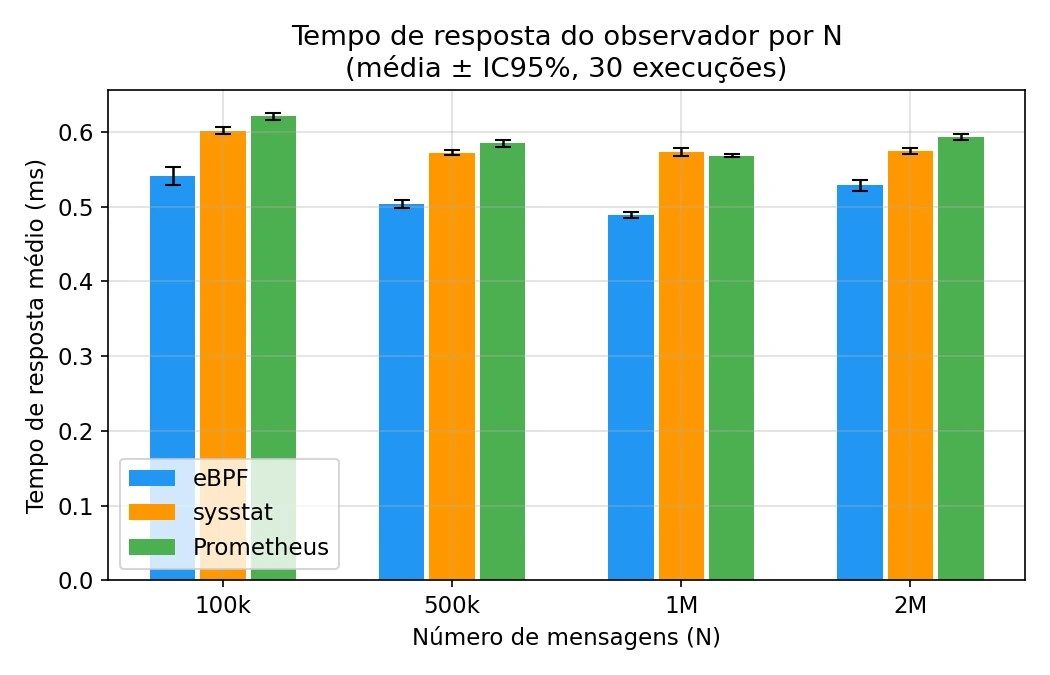
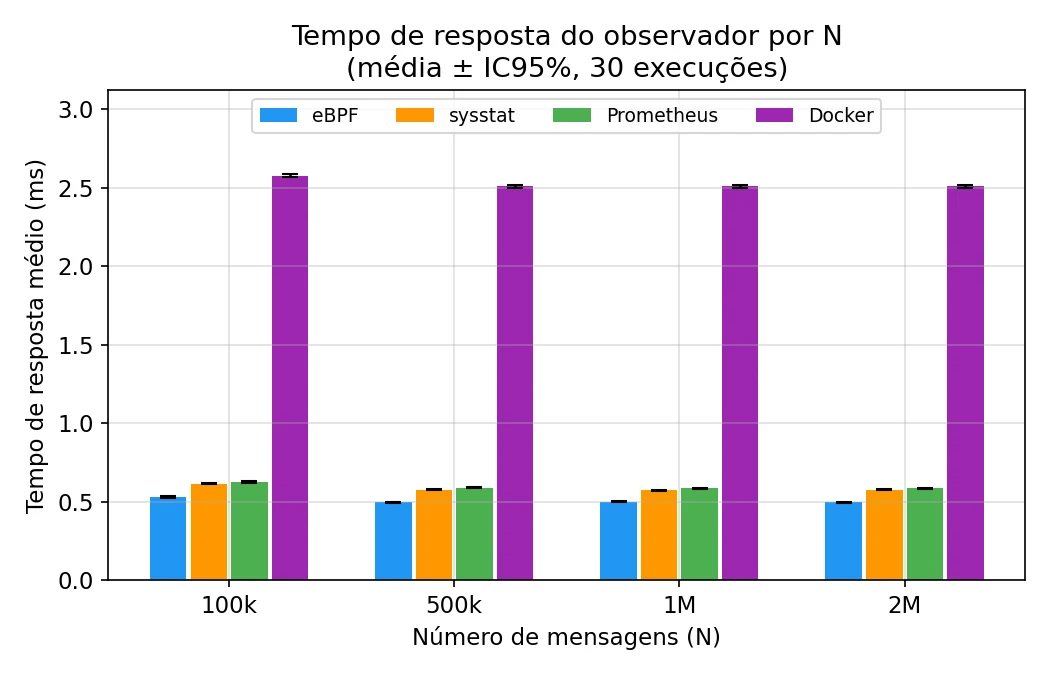
content: TCC com quatro ferramentas e 480 execuções (#23)
* content: TCC com a quarta ferramenta e a nova coleta de 480 execuções

Atualiza o estudo de caso, o card da home e os dados do projeto: Docker
entra como quarto coletor, 480 execuções (kernel 7.0.0-38), eBPF de 13%
a 16% abaixo de Sysstat e Prometheus, limites revisados. Troca o gráfico
e o diagrama C4 pelos gerados no repositório do TCC.

* content: link e captura do painel VNF Lab no estudo do TCC

---------

diff --git a/src/data/caseStudies.ts b/src/data/caseStudies.ts
@@ -85,27 +85,28 @@ export const CASE_STUDIES: CaseStudy[] = [
       { id: "monitor", title: "O monitor de TCP, no centro do curso.", paragraphs: ["Duas kprobes cobrem as duas direções do tráfego: tcp_sendmsg a cada envio e tcp_cleanup_rbuf a cada entrega de dados recebidos à aplicação. Cada uma soma bytes em um mapa hash, e o programa de controle lê os dois mapas a cada segundo e imprime uma tabela de porta, bytes enviados e recebidos.", "Uma decisão que vale registrar: o roteiro do curso lia a porta remota, mas usamos a porta local do socket. Assim a tabela sempre mostra a porta do processo observado, que no laboratório é a 8080 do servidor de teste, e não a porta temporária do cliente, que muda a cada conexão."], code: { title: "monitor.bpf.c, trecho do exemplo 04", content: 'struct {\n    __uint(type, BPF_MAP_TYPE_HASH);\n    __uint(max_entries, 1024);\n    __type(key, __u16);   // porta TCP local\n    __type(value, __u64); // bytes acumulados\n} bytes_enviados SEC(".maps");\n\nSEC("kprobe/tcp_sendmsg")\nint BPF_KPROBE(trace_tcp_sendmsg, struct sock *sk, struct msghdr *msg, size_t size)\n{\n    __u16 porta = BPF_CORE_READ(sk, __sk_common.skc_num);\n\n    acumular(&bytes_enviados, porta, size);\n    return 0;\n}' }, points: ["Duas kprobes, uma por direção do tráfego", "Mapas hash chaveados pela porta TCP local", "O kernel agrega os contadores, sem ler /proc nem copiar pacotes", "O kprobe enxerga o container porque o kernel é compartilhado"] },
       { id: "ambiente", title: "O ambiente também faz parte do material.", paragraphs: ["O ambiente é reproduzível por Docker, com um container de desenvolvimento que já traz clang, LLVM, libbpf e bpftool, e um servidor de teste que gera o tráfego TCP. Um script confere se a máquina tem o que é preciso, como o suporte a BTF no kernel.", "Em máquinas onde o Docker não pode ser usado, como os laboratórios da faculdade, o repositório traz uma alternativa com libvirt e QEMU-KVM: uma VM onde há root e o Docker roda como em qualquer máquina. O fluxo recomendado pelo orientador é gerar a imagem uma vez e importá-la pronta em cada computador, em vez de provisionar tudo do zero."], points: ["Container de desenvolvimento e servidor de teste em Docker", "Alternativa em VM com libvirt e QEMU-KVM para laboratórios", "Imagem gerada uma vez e importada em cada máquina"] },
       { id: "validacao", title: "Cada exemplo foi compilado e testado de ponta a ponta.", paragraphs: ["O GitHub Actions verifica o suporte a BTF no runner e compila os exemplos em C dentro do container de desenvolvimento a cada push, e também roda lint nos exemplos em Python. Todos os seis exemplos, em C e em Python, foram compilados ou carregados e validados na prática.", "Os exemplos 04 e 05 em Python foram validados na VM libvirt, porque o ambiente em que o repositório foi montado tinha um pacote de headers do kernel inconsistente, que impedia o BCC de compilar. A versão em Python do exemplo 04 precisou de dois ajustes, um include que faltava e o uso incorreto da API de tabelas do BCC, e ambos estão documentados no próprio exemplo."], points: ["CI compilando os exemplos em C a cada push", "Validação real, incluindo na VM libvirt", "Problemas encontrados e correções documentados no repositório"] },
-      { id: "pesquisa", title: "A pesquisa que fundamenta o curso.", paragraphs: ["O curso se apoia no experimento do meu TCC: um benchmark que compara o overhead de eBPF, Sysstat e Prometheus ao monitorar um WAF em container. O experimento tem 30 repetições, 4 cargas e 3 coletores, e o código está em um repositório separado, o vnf-monitoring-benchmark."], points: ["Benchmark de overhead com 30 repetições, 4 cargas e 3 coletores", "Experimento em repositório separado"] },
+      { id: "pesquisa", title: "A pesquisa que fundamenta o curso.", paragraphs: ["O curso se apoia no experimento do meu TCC: um benchmark que compara o overhead de eBPF, Sysstat, Prometheus e Docker ao monitorar um WAF em container. O experimento tem 30 repetições, 4 cargas e 4 coletores, e o código está em um repositório separado, o vnf-monitoring-benchmark."], points: ["Benchmark de overhead com 30 repetições, 4 cargas e 4 coletores", "Experimento em repositório separado"] },
     ],
   },
   {
     projectId: "tcc-monitoramento",
     slug: "tcc-monitoramento",
     headline: "Quanto custa observar um sistema?",
-    introduction: "Meu TCC compara o overhead de três formas de monitorar uma função de rede virtualizada: eBPF, Sysstat e Prometheus. Montei um experimento reprodutível, com um WAF sob carga, e medi o custo de cada ferramenta com estatística, em vez de opinião.",
+    introduction: "Meu TCC compara o overhead de quatro formas de monitorar uma função de rede virtualizada: eBPF, Sysstat, Prometheus e a API do Docker. Montei um experimento reprodutível, com um WAF sob carga, e medi o custo de cada ferramenta com estatística, em vez de opinião.",
     scope: "TCC em dupla · orientação do Prof. Guilherme Werneck de Oliveira · defesa final pendente",
     flowTitle: "O caminho de uma medição",
     flow: ["Cliente", "WAF", "Observador", "Probe UDP", "Tempo de resposta"],
     screens: [
       { src: "/tcc/c4.webp", alt: "Diagrama C4 de contêineres do experimento: observador, WAF, coletor e cliente", caption: "Diagrama C4 do experimento: o cliente gera tráfego para o WAF, o observador coleta as métricas e o coletor mede quanto ele demora para responder." },
-      { src: "/tcc/tempo-resposta.webp", alt: "Gráfico do tempo de resposta médio do observador por volume, com intervalo de confiança de 95%", caption: "Tempo de resposta médio do observador por volume de mensagens, com intervalo de confiança de 95% sobre 30 execuções." },
+      { src: "/tcc/tempo-resposta.webp", alt: "Gráfico do tempo de resposta médio do observador por volume, comparando eBPF, sysstat, Prometheus e Docker, com intervalo de confiança de 95%", caption: "Tempo de resposta médio do observador por volume de mensagens, com intervalo de confiança de 95% sobre 30 execuções." },
+      { src: "/tcc/dashboard.webp", alt: "Painel interativo VNF Lab com as 480 execuções, filtros por ferramenta e volume e o tempo de resposta por ferramenta", caption: "O painel interativo (VNF Lab) com as 480 execuções: filtros por ferramenta e volume, tempo de resposta e consumo de recursos." },
     ],
     sections: [
       { id: "contexto", title: "Uma pergunta simples, que pede método.", paragraphs: ["Funções de rede virtualizadas precisam ser monitoradas, e o monitoramento também consome recursos. A pergunta do trabalho é quanto esse custo pesa em cada abordagem.", "É o Trabalho de Conclusão de Curso do Bacharelado em Ciência da Computação do IFPR Campus Pinhais, feito em dupla com Rafael Correia Alves e orientado pelo Prof. Guilherme Werneck de Oliveira. O trabalho já passou pela pré-banca, e a apresentação final ainda vai acontecer."], points: ["Título: Monitoramento de Funções Virtualizadas de Redes, um estudo comparativo entre ferramentas de extração de comportamento", "Código aberto com licença MIT", "Texto da tese em LaTeX no próprio repositório"] },
-      { id: "metodo", title: "Três ferramentas, o mesmo WAF.", paragraphs: ["O cliente envia payloads pré-gerados, 60% benignos e 40% maliciosos, a um WAF simplificado em Python, que inspeciona SQL injection, XSS, path traversal, execução remota e null byte. A semente é fixa, então a carga é a mesma em todas as execuções.", "O observador coleta métricas do WAF com a ferramenta em teste: o eBPF usa kprobes no kernel (`tcp_sendmsg` e `tcp_cleanup_rbuf`) com libbpf e CO-RE, o Sysstat lê `/proc/net/dev` e o Prometheus faz o mesmo com um endpoint HTTP ativo. Um probe UDP faz uma requisição por segundo e mede o tempo de resposta, com o mesmo script nas três ferramentas."], points: ["Métrica principal: tempo de resposta do observador", "Métricas secundárias: CPU e memória do WAF e do observador", "Mesmo WAF, mesma carga e mesmo probe em todas as ferramentas"] },
-      { id: "experimento", title: "360 execuções, coletadas e repetidas.", paragraphs: ["Foram 3 ferramentas, 4 volumes (100 mil, 500 mil, 1 milhão e 2 milhões de mensagens) e 30 repetições de cada combinação, coletadas entre 16 e 18 de maio de 2026. Os resultados aparecem como média com intervalo de confiança de 95%, calculado com t de Student.", "O ambiente é Linux nativo com BTF e Docker Compose, e os scripts reproduzem a bateria completa, que leva cerca de 10 horas."], points: ["Execuções reprodutíveis por scripts", "Resultados brutos e agregados versionados no repositório", "Diagrama C4 da topologia experimental"] },
-      { id: "resultados", title: "O que os números mostraram.", paragraphs: ["O eBPF teve o menor tempo de resposta do observador nos quatro volumes, com intervalos de confiança sem sobreposição em relação ao Sysstat e ao Prometheus. A vantagem é de 8% a 15%. Em 100 mil mensagens, por exemplo, foram 0,541 ms contra 0,601 ms do Sysstat e 0,621 ms do Prometheus.", "Na memória do observador, o Sysstat usou cerca de 14 MB, o eBPF cerca de 15 MB e o Prometheus cerca de 24 MB, o custo do servidor HTTP. A CPU do WAF ficou equivalente entre as ferramentas, e a CPU do observador não permitiu uma conclusão."], points: ["Tempo de resposta: eBPF menor nos quatro volumes", "Memória do observador: Sysstat, eBPF e Prometheus, do menor ao maior", "CPU do WAF equivalente, CPU do observador inconclusiva"] },
-      { id: "limites", title: "O que o experimento não prova.", paragraphs: ["O tráfego passa pela interface de loopback, sem o custo de uma placa de rede física, e cliente, WAF e observador dividem o mesmo kernel e os mesmos núcleos. O WAF é uma implementação simplificada em Python, igual em todas as execuções. Por isso os valores absolutos mudariam numa rede real, e a comparação entre ferramentas é o que vale.", "Há outros limites registrados: nos volumes de 500 mil em diante o WAF processa só de 54% a 81% do volume nominal, cada combinação foi coletada em sequência e não intercalada, e o Prometheus foi avaliado só como exportador, sem um servidor consultando. Também ficou sem causa determinada por que a vantagem do eBPF encolhe de 1 para 2 milhões de mensagens."], points: ["Loopback e recursos compartilhados", "Lotes não intercalados", "Prometheus sem scraping", "Queda da vantagem em 2 milhões sem causa determinada"] },
+      { id: "metodo", title: "Quatro ferramentas, o mesmo WAF.", paragraphs: ["O cliente envia payloads pré-gerados, 60% benignos e 40% maliciosos, a um WAF simplificado em Python, que inspeciona SQL injection, XSS, path traversal, execução remota e null byte. A semente é fixa, então a carga é a mesma em todas as execuções.", "O observador coleta métricas do WAF com a ferramenta em teste: o eBPF usa kprobes no kernel (`tcp_sendmsg` e `tcp_cleanup_rbuf`) com libbpf e CO-RE, o Sysstat lê `/proc/net/dev`, o Prometheus faz o mesmo com um endpoint HTTP ativo e o Docker consulta a API do daemon, que lê os cgroups do container (o quarto coletor foi sugestão do orientador). Um probe UDP faz uma requisição por segundo e mede o tempo de resposta, com o mesmo script nas quatro ferramentas."], points: ["Métrica principal: tempo de resposta do observador", "Métricas secundárias: CPU e memória do WAF e do observador", "Mesmo WAF, mesma carga e mesmo probe em todas as ferramentas"] },
+      { id: "experimento", title: "480 execuções, coletadas e repetidas.", paragraphs: ["Foram 4 ferramentas, 4 volumes (100 mil, 500 mil, 1 milhão e 2 milhões de mensagens) e 30 repetições de cada combinação, coletadas em 7 e 8 de outubro de 2026, no kernel 7.0.0-38. Uma coleta anterior, com três ferramentas, ficou arquivada. Os resultados aparecem como média com intervalo de confiança de 95%, calculado com t de Student.", "O ambiente é Linux nativo com BTF e Docker Compose, e os scripts reproduzem a bateria completa. Os resultados também estão num painel interativo online, o VNF Lab, linkado nesta página."], points: ["Execuções reprodutíveis por scripts", "Resultados brutos e agregados versionados no repositório", "Diagrama C4 da topologia experimental"] },
+      { id: "resultados", title: "O que os números mostraram.", paragraphs: ["O eBPF teve o menor tempo de resposta do observador nos quatro volumes, com intervalos de confiança sem sobreposição em relação às demais. Ele fica de 13% a 14% abaixo do Sysstat e de 15% a 16% abaixo do Prometheus. Em 100 mil mensagens, por exemplo, foram 0,531 ms contra 0,614 ms do Sysstat e 0,625 ms do Prometheus. O Docker ficou em cerca de 2,5 ms, cinco vezes o eBPF, e a decomposição desse tempo não foi medida.", "Na memória do observador, o Sysstat usou cerca de 14 MB, o eBPF cerca de 15 MB, o Prometheus cerca de 25 MB, o custo do servidor HTTP, e o Docker cerca de 31 MB. A CPU do WAF ficou equivalente entre as ferramentas, e a CPU do observador não permitiu uma conclusão."], points: ["Tempo de resposta: eBPF menor nos quatro volumes", "Memória do observador: Sysstat, eBPF, Prometheus e Docker, do menor ao maior", "CPU do WAF equivalente, CPU do observador inconclusiva"] },
+      { id: "limites", title: "O que o experimento não prova.", paragraphs: ["O tráfego passa pela interface de loopback, sem o custo de uma placa de rede física, e cliente, WAF e observador dividem o mesmo kernel e os mesmos núcleos. O WAF é uma implementação simplificada em Python, igual em todas as execuções. Por isso os valores absolutos mudariam numa rede real, e a comparação entre ferramentas é o que vale.", "Há outros limites registrados: nos volumes de 500 mil em diante o WAF processa só de 62% a 87% do volume nominal, cada combinação foi coletada em sequência e não intercalada, e o Prometheus foi avaliado só como exportador, sem um servidor consultando. A CPU do observador ficou inconclusiva, e a memória do WAF no Docker vem do cgroup, então não é comparável com as demais."], points: ["Loopback e recursos compartilhados", "Lotes não intercalados", "Prometheus sem scraping", "CPU do observador inconclusiva"] },
       { id: "pratica", title: "Do experimento ao minicurso.", paragraphs: ["O coletor do TCC é o mesmo conceito que apresentei no minicurso de eBPF do SciTec: kprobes que contam o tráfego TCP direto no kernel, sem passar pelo /proc. O experimento deu uma pergunta e uma base de dados reais, e o minicurso levou a técnica para a sala de aula."], points: ["Mesmo coletor, dois contextos: pesquisa e ensino", "Repositório com documentação, diagramas e diário do projeto"] },
     ],
   },

diff --git a/src/site/content.ts b/src/site/content.ts
@@ -91,10 +91,10 @@ int BPF_KPROBE(trace_tcp_sendmsg, struct sock *sk,
     name: "TCC",
     kind: "Pesquisa sobre monitoramento de redes virtualizadas",
     summary:
-      "Quanto custa observar um sistema? Medimos o overhead de eBPF, Sysstat e Prometheus monitorando um WAF, em 360 execuções reprodutíveis. A defesa final ainda está por vir.",
+      "Quanto custa observar um sistema? Medimos o overhead de eBPF, Sysstat, Prometheus e Docker monitorando um WAF, em 480 execuções reprodutíveis. A defesa final ainda está por vir.",
     facts: [
-      { label: "Experimento", value: "3 ferramentas, 4 volumes, 30 repetições" },
-      { label: "Resultado", value: "eBPF com menor tempo de resposta, de 8% a 15%" },
+      { label: "Experimento", value: "4 ferramentas, 4 volumes, 30 repetições" },
+      { label: "Resultado", value: "eBPF com menor tempo de resposta, de 13% a 16%" },
       { label: "Estatística", value: "Média com intervalo de confiança de 95%" },
       { label: "Status", value: "Passou pela pré-banca, defesa final pendente" },
     ],
@@ -102,7 +102,7 @@ int BPF_KPROBE(trace_tcp_sendmsg, struct sock *sk,
     panelInk: "#2b2012",
     image: {
       src: "/tcc/tempo-resposta.webp",
-      alt: "Gráfico do tempo de resposta médio do observador por volume de mensagens, comparando eBPF, sysstat e Prometheus",
+      alt: "Gráfico do tempo de resposta médio do observador por volume de mensagens, comparando eBPF, sysstat, Prometheus e Docker",
     },
   },
 ];

diff --git a/src/data/index.ts b/src/data/index.ts
@@ -122,8 +122,9 @@ export const PROJECTS: Project[] = [
     category: "Pesquisa — TCC",
     title: "TCC: monitoramento de VNF",
     description:
-      "Benchmark que compara o overhead de eBPF, Sysstat e Prometheus ao monitorar um WAF virtualizado, com 360 execuções reprodutíveis.",
+      "Benchmark que compara o overhead de eBPF, Sysstat, Prometheus e Docker ao monitorar um WAF virtualizado, com 480 execuções reprodutíveis.",
     tags: ["eBPF", "Sysstat", "Prometheus", "Python", "Docker", "Linux"],
+    demo: "https://vnf-lab.up.railway.app/",
     github: "https://github.com/joaopedroplinta/vnf-monitoring-benchmark",
   },
   {

diff --git a/README.md b/README.md
@@ -10,7 +10,7 @@ A abertura é uma capa de revista: o nome "Pinguim" (o apelido, e o pinguim que 
   - **Plana**, SaaS de agendamentos em produção;
   - **Hackathon IFPR**, plataforma para operar um evento de ponta a ponta;
   - **Minicurso eBPF**, extensão apresentada no SciTec do IFPR;
-  - **TCC**, benchmark de overhead de eBPF, Sysstat e Prometheus.
+  - **TCC**, benchmark de overhead de eBPF, Sysstat, Prometheus e Docker.
 - Scroll narrativo na seção de trabalho, prévia da tela que segue o mouse nas chamadas da capa e carrossel de telas no celular.
 - Tema claro e escuro, que respeita a preferência do sistema e `prefers-reduced-motion`.
 - Open Graph para prévia de compartilhamento, favicon e página 404.
